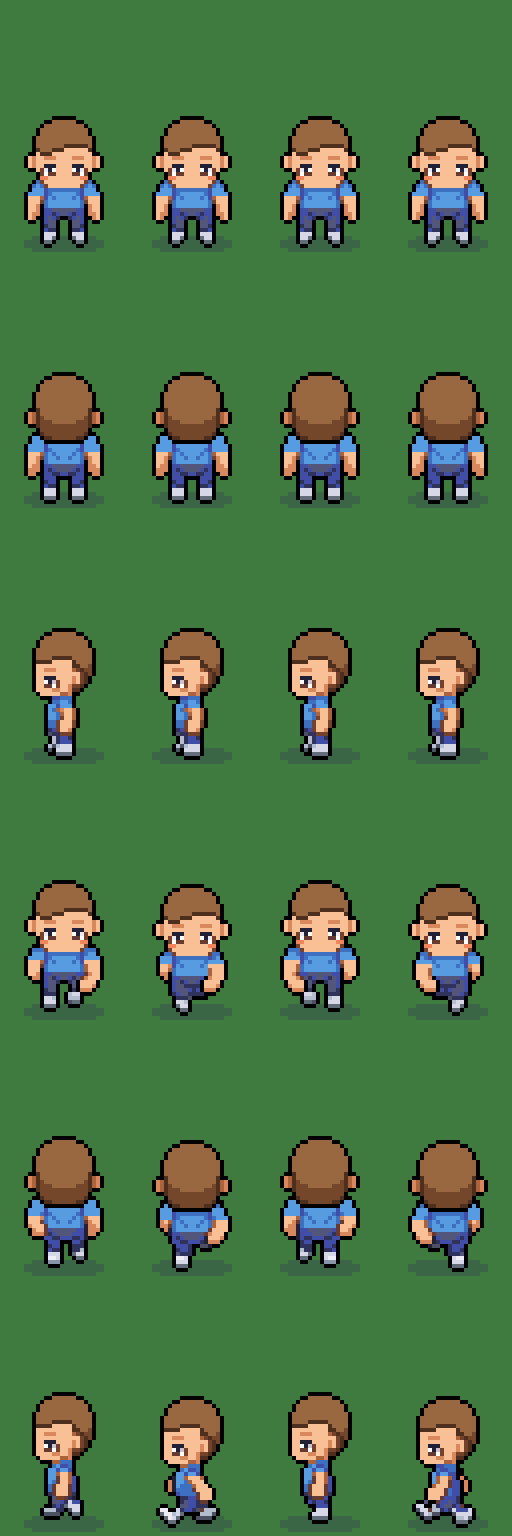
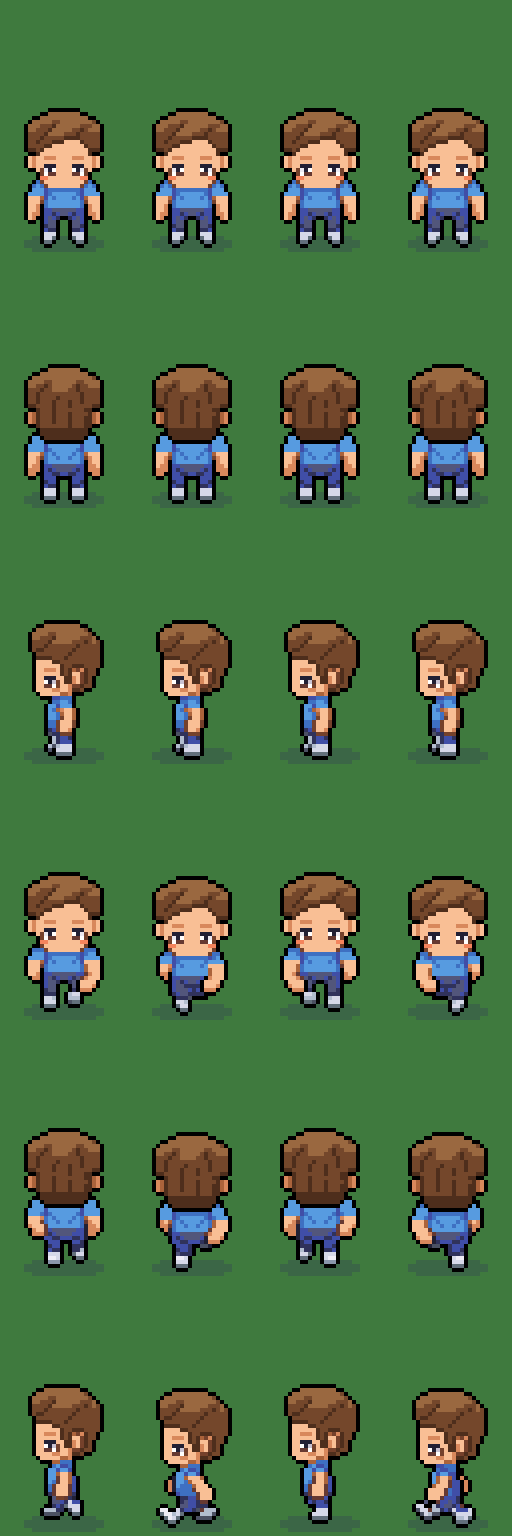
Characters: side hair fills the head, new swept hairstyle
- Side view: hair covers everything behind the face, only the ear stays skin
- New default hair "Swept" (hair_swept_01): hand-authored templates with
  volume, strands and highlights for front, back and side
- Hair items can declare partsUnderHat; itemParts() picks the flattened
  variant while headwear is worn so hair does not poke out of hats

diff --git a/scripts/gen-placeholders.ts b/scripts/gen-placeholders.ts
@@ -395,6 +395,8 @@ const drawers: Record<string, Drawer> = {
     // ears stay visible (this layer is drawn over the head in the back view)
     for (let y = 0; y < FRAME_H; y++) for (let x = 0; x < FRAME_W; x++) if (isEar(f, x, y)) r.px(x, y, false);
   },
+  "hair/hair_swept_01.png": (f) => sweptHair(f),
+  "hair/hair_swept_01_hat.png": (f) => sweptHair(f, true),
   "hair/hair_bun_01.png": (f) => {
     const h = f.p.head;
     const bun = f.reg("primary");
@@ -551,6 +553,88 @@ function isEar(f: Frame, x: number, y: number): boolean {
   return (x <= h.x + 2 || x >= h.x + h.w - 3) && ry >= 9 && ry <= 13;
 }
 
+/**
+ * Swept-back hair with volume: a hand-drawn shape that is bigger than the head (2 px taller, 2 px wider),
+ * unlike the caps cut from the head silhouette. Templates are rows 27… of the idle frame; digits are the
+ * shade (1 dark strand · 2 base · 3 highlight streak), edge pixels become the outline. They ride the head bob.
+ */
+const SWEPT_TOP = 27;
+const SWEPT: Record<SheetDir, string[]> = {
+  down: [
+    "............22222222............",
+    "..........223333333322..........",
+    "........2233333333333322........",
+    ".......233333223333333322.......",
+    "......23332221333333222332......",
+    "......23322213333322123332......",
+    "......22222133332221222222......",
+    "......22221222222212222222......",
+    "......2221222222....222222......",
+    "......2222222........22222......",
+    "......22222...........2222......",
+    ".........2............2.........",
+  ],
+  up: [
+    "............22222222............",
+    "..........223333333322..........",
+    "........2233333333333322........",
+    ".......233333333333333322.......",
+    "......23333223333332233332......",
+    "......23322123333321223332......",
+    "......22221223333221222222......",
+    "......22212222222222122222......",
+    "......22212222122222122222......",
+    "......22212221222122122222......",
+    "......22222221222122222222......",
+  ],
+  left: [
+    "...........222222222............",
+    ".........2233333333322..........",
+    "........233333333333322.........",
+    ".......23333223333333322........",
+    ".......233222133333322232.......",
+    ".......2222213333322212322......",
+    ".......2222122222221222222......",
+    ".......2211222222212222222......",
+    "........222222222122222222......",
+    "........222222221222222222......",
+    ".............2222222222222......",
+    "...............22222222222......",
+    "...............222...2222.......",
+    "...............222...2222.......",
+    "................22...222........",
+    "................22...222........",
+    "....................2222........",
+    "..................22222.........",
+    "..................222...........",
+  ],
+};
+
+/** `underHat`: clipped to the head silhouette so nothing pokes out around headwear. */
+function sweptHair(f: Frame, underHat = false) {
+  const { p } = f;
+  const dyHead = p.head.y - 29;
+  const rows = SWEPT[f.dir];
+  const m = headMask(p);
+  const inHead = (x: number, y: number) => x >= 0 && y >= 0 && x < FRAME_W && y < FRAME_H && m[y * FRAME_W + x] === 1;
+  const tpl = (x: number, y: number) => rows[y - dyHead - SWEPT_TOP]?.[x] ?? ".";
+  const headBottom = HEAD_BOTTOM[f.dir] + p.m.headDy;
+  const r = f.reg("primary", inHead, 0, (x, y) => {
+    const t = tpl(x, y);
+    if (t !== ".") return Number(t);
+    // back view below the template: hair falling to the nape — darker toward the bottom, a few strands
+    return y >= headBottom - 1 || (x % 4 === 1 && (x + y) % 5 !== 0) ? 1 : 2;
+  });
+  for (let y = 0; y < FRAME_H; y++)
+    for (let x = 0; x < FRAME_W; x++) {
+      const back = f.dir === "up" && y - dyHead >= SWEPT_TOP + rows.length && y <= headBottom + 2 && inHead(x, y);
+      if ((tpl(x, y) !== "." || back) && !isEar(f, x, y) && (!underHat || inHead(x, y))) r.px(x, y);
+    }
+}
+
+/** Side view: columns of the head (from its front edge) that stay face; hair fills everything behind. */
+const SIDE_FACE_W = 8;
+
 function hairCap(f: Frame, sideLen: number) {
   const { p } = f;
   const h = p.head;
@@ -564,9 +648,9 @@ function hairCap(f: Frame, sideLen: number) {
     // the whole back of the head is hair, down to the collar; the ears stay visible
     fromHead(r, p, (x, y) => y <= headBottom + 2 && !ear(x, y));
   } else {
-    // top + the whole back half of the head down to the nape, around the ear
-    // no sideburn: below the hairline, hair only from the ear backwards
-    fromHead(r, p, (x, y) => !ear(x, y) && (y <= h.y + 7 || (x >= h.x + 10 && y <= headBottom)));
+    // the whole side of the head is hair, down to the nape: everything behind the face (eye + cheek),
+    // in front of, behind and under the ear — only the ear itself stays skin
+    fromHead(r, p, (x, y) => !ear(x, y) && (y <= h.y + 7 || (x >= h.x + SIDE_FACE_W && y <= headBottom)));
     r.rect(h.x + 1, h.y + 8, 4, 1); // fringe tip
   }
 }
@@ -810,7 +894,7 @@ function main() {
   const reg: ItemRegistry = JSON.parse(fs.readFileSync(path.join(ROOT, "art/characters/items.json"), "utf8"));
   const missing: string[] = [];
   for (const item of reg.items)
-    for (const part of item.parts) {
+    for (const part of [...item.parts, ...(item.partsUnderHat ?? [])]) {
       const drawer = drawers[part.sheet];
       if (!drawer) {
         if (!fs.existsSync(path.join(OUT, "characters", part.sheet))) missing.push(part.sheet);

diff --git a/scripts/preview-avatar.ts b/scripts/preview-avatar.ts
@@ -8,6 +8,7 @@ import path from "node:path";
 import { fileURLToPath } from "node:url";
 import { Canvas } from "./lib/pixel.js";
 import {
+  itemParts,
   ANIMS, ANIM_ORDER, FRAME_H, FRAME_W, SHEET_DIRS, sheetRow,
   LAYER_ORDER, DEFAULT_AVATAR, SLOTS, resolveRamp, skinRamp,
   buildSwapTable, swapPixels, type Avatar, type ItemRegistry, type Layer, type Ramp, type SlotChoice,
@@ -23,7 +24,7 @@ function compose(a: Avatar): Canvas {
     const choice = a.slots[slot] as SlotChoice | null | undefined;
     if (!choice) continue;
     const item = reg.items.find((i) => i.id === choice.id)!;
-    for (const part of item.parts) {
+    for (const part of itemParts(item, a)) {
       const sheet = Canvas.load(path.join(ASSETS, part.sheet));
       const swaps: Partial<Record<"skin" | "primary" | "secondary", Ramp>> = { skin: skinRamp(a.skin) };
       const p = resolveRamp(slot, choice.primary);
@@ -70,6 +71,8 @@ function scale(c: Canvas, k: number, bg = "#3f7a3e"): Canvas {
 
 const looks: Record<string, Avatar> = {
   default: DEFAULT_AVATAR,
+  swept: { ...DEFAULT_AVATAR, slots: { ...DEFAULT_AVATAR.slots, hair: { id: "hair_swept_01", primary: "gray" } } },
+  swept_cap: { ...DEFAULT_AVATAR, slots: { ...DEFAULT_AVATAR.slots, hair: { id: "hair_swept_01", primary: "brown" }, headwear: { id: "head_cap_01", primary: "coral", secondary: "navy" } } },
   hoodie: { skin: "brown", slots: { ...DEFAULT_AVATAR.slots, hair: { id: "hair_long_01", primary: "black" }, outerwear: { id: "outer_hoodie_01", primary: "mustard", secondary: "white" }, bottom: { id: "bottom_skirt_01", primary: "charcoal" }, shoes: { id: "shoes_boots_01", primary: "charcoal", secondary: "beige" }, back_accessory: { id: "backpack_01", primary: "green", secondary: "teal" } } },
   founder: { skin: "porcelain", slots: { ...DEFAULT_AVATAR.slots, hair: { id: "hair_bun_01", primary: "blonde" }, top: { id: "top_longsleeve_01", primary: "white", secondary: "navy" }, outerwear: { id: "outer_blazer_01", primary: "lavender", secondary: "white" }, face_accessory: { id: "glasses_01" }, bottom: { id: "bottom_pants_01", primary: "charcoal" } } },
   cap: { skin: "deep", slots: { ...DEFAULT_AVATAR.slots, headwear: { id: "head_cap_01", primary: "coral", secondary: "navy" }, bottom: { id: "bottom_shorts_01", primary: "beige" }, top: { id: "top_tee_01", primary: "purple" } } },

diff --git a/shared/src/avatar.ts b/shared/src/avatar.ts
@@ -78,11 +78,18 @@ export interface ItemDef {
   slot: Slot;
   name: string;
   parts: ItemPart[];
+  /** Hair only: parts used instead of `parts` while headwear is worn (voluminous hair flattened to fit under a hat). */
+  partsUnderHat?: ItemPart[];
   /** Which key ramps this item uses (besides skin, which always follows the avatar skin). */
   channels: Channel[];
   tags?: string[];
   /** Locked items are unlocked by gameplay (rewards). */
   unlock?: string;
+}
+
+/** The parts of an item as worn by this avatar (hair switches to its under-hat parts when headwear is on). */
+export function itemParts(item: ItemDef, a: Avatar): ItemPart[] {
+  return item.slot === "hair" && item.partsUnderHat && a.slots.headwear ? item.partsUnderHat : item.parts;
 }
 
 export interface ItemRegistry {
@@ -106,7 +113,7 @@ export const DEFAULT_AVATAR: Avatar = {
   slots: {
     body: { id: "body_01" },
     face: { id: "face_01" },
-    hair: { id: "hair_short_01", primary: "brown" },
+    hair: { id: "hair_swept_01", primary: "brown" },
     top: { id: "top_tee_01", primary: "blue" },
     bottom: { id: "bottom_pants_01", primary: "navy" },
     shoes: { id: "shoes_sneakers_01", primary: "white", secondary: "grey" },

diff --git a/client/src/game/avatar/compositor.ts b/client/src/game/avatar/compositor.ts
@@ -3,6 +3,7 @@
  * Pure DOM canvas, no Phaser — used by the game AND the builder preview.
  */
 import {
+  itemParts,
   FRAME_H, SHEET_DIRS, SHEET_H, SHEET_W, ANIM_ORDER, sheetRow, LAYER_ORDER, SLOTS,
   avatarKey, buildSwapTable, resolveRamp, skinRamp, swapPixels,
   type Avatar, type Channel, type ItemRegistry, type Layer, type Ramp,
@@ -60,7 +61,7 @@ async function bake(a: Avatar, reg: ItemRegistry): Promise<HTMLCanvasElement> {
     const s = resolveRamp(slot, choice.secondary);
     if (p) swaps.primary = p;
     if (s) swaps.secondary = s;
-    for (const part of item.parts)
+    for (const part of itemParts(item, a))
       jobs.push(recoloredLayer(part.sheet, swaps).then((c) => void layers.set(part.layer, c)));
   }
   await Promise.all(jobs);

diff --git a/scripts/validate-assets.ts b/scripts/validate-assets.ts
@@ -53,7 +53,7 @@ for (const item of reg.items) {
   if (ids.has(item.id)) err(`items.json: duplicate id ${item.id}`);
   ids.add(item.id);
   if (!SLOTS.includes(item.slot)) err(`items.json: ${item.id} has unknown slot ${item.slot}`);
-  for (const part of item.parts) {
+  for (const part of [...item.parts, ...(item.partsUnderHat ?? [])]) {
     if (!LAYERS.includes(part.layer)) err(`items.json: ${item.id} unknown layer ${part.layer}`);
     const file = path.join(A, "characters", part.sheet);
     if (!fs.existsSync(file)) {
